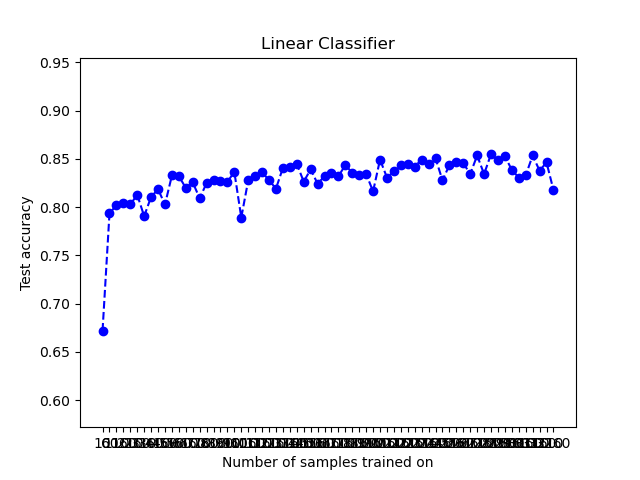
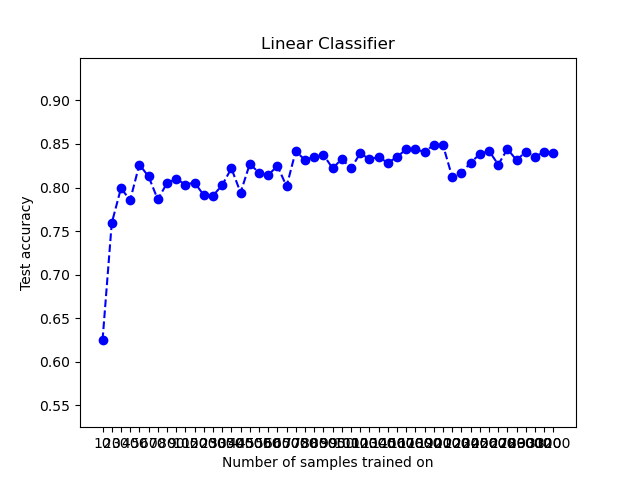
simple classifiers

diff --git a/transfer_learning.py b/transfer_learning.py
@@ -1,6 +1,7 @@
 import numpy as np
 import pandas as pd
 import matplotlib.pyplot as plt
+from itertools import chain
 from os.path import isfile, join
 from tqdm import tqdm
 from configfile import *
@@ -43,7 +44,8 @@ if __name__ == "__main__":
     svc_accuracies = []
     linear_accuracies = []
     knn_accuracies = []
-    for n in tqdm(range(10, len(train), 50)):
+    sample_range = chain(range(10, 100, 10), range(100, 1000, 50), range(1000, len(train), 100))
+    for n in tqdm(list(sample_range)):
         X_train = train.iloc[:n, 2:]
         y_train = train.loc[:, "label_idx"].iloc[:n]
         # Fit models
